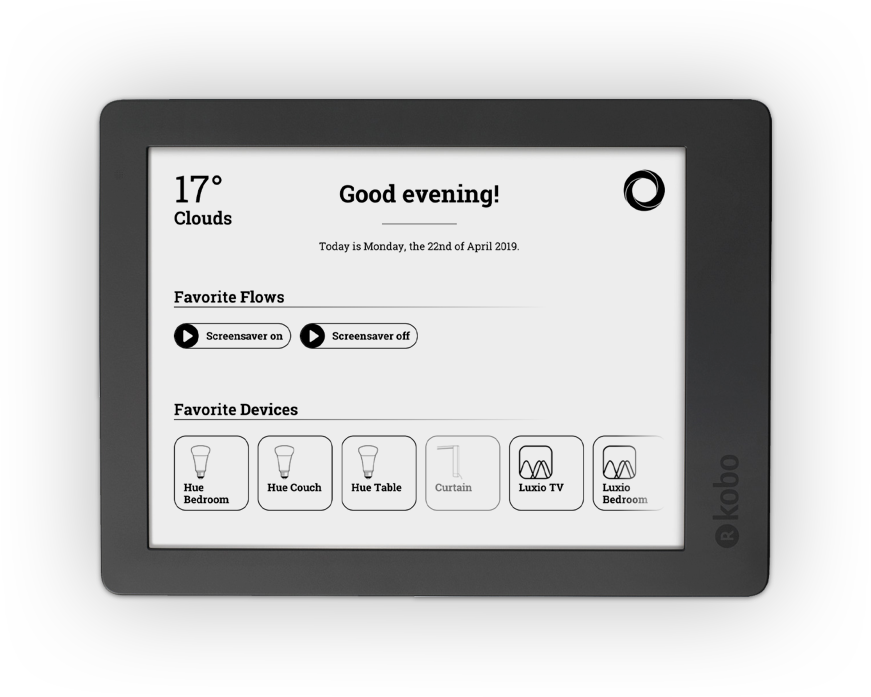
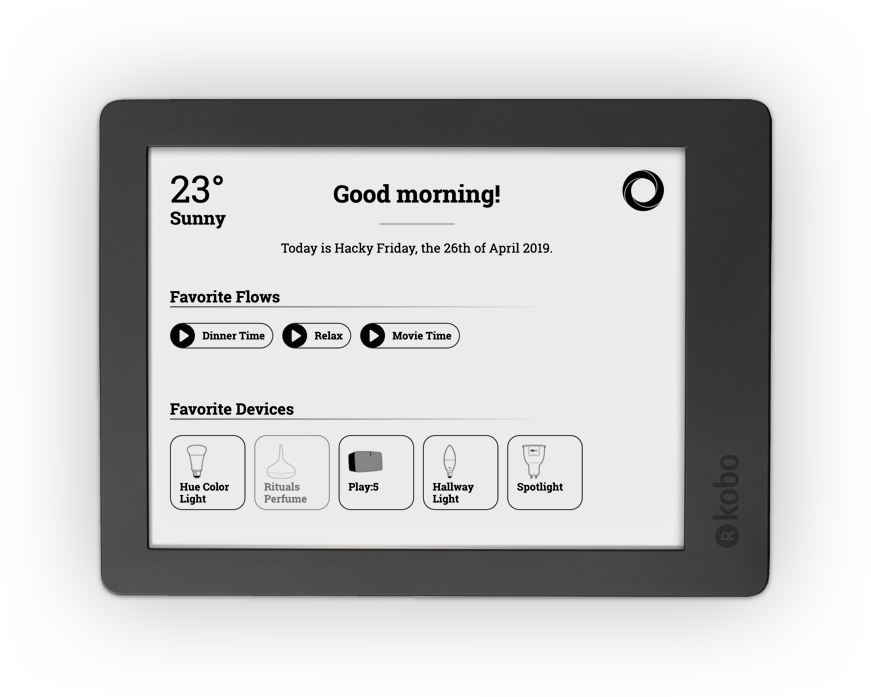
add themes

diff --git a/app/css/homey.ink.css b/app/css/homey.ink.css
@@ -1,5 +1,3 @@
-@import url('https://fonts.googleapis.com/css?family=Roboto+Slab:400,700');
-
 * {
   margin: 0;
   padding: 0;
@@ -16,17 +14,11 @@ body {
   background: white;
   color: black;
   
-  font-family: "Roboto Slab";
+  font-family: Helvetica, sans-serif;
 }
 
 #container {
-  width: 1440px;
-  height: 1080px;
-  
-  padding: 64px;
   box-sizing: border-box;
-  
-  -webkit-transform: rotate(90deg) translateX(180px) translateY(180px);
 }
   #container-inner {
     position: relative;
@@ -45,9 +37,6 @@ body {
   }
   
   #text {
-    position: absolute;
-    left: 200px;
-    right: 200px;
     text-align: center;
   }
   #text-large:after {
@@ -71,9 +60,7 @@ body {
     }
   
   #weather {
-    position: absolute;
-    left: 0;
-    top: 0;
+    
   }
     #weather-temperature {
       font-size: 100px;
@@ -89,9 +76,6 @@ body {
     }
   
   .favorites {
-    position: absolute;
-    left: 0;
-    right: 0;
     
   }
     .favorites h2 {
@@ -120,7 +104,6 @@ body {
     }
   
   #flows {
-    top: 310px;
   }
     .flows {
     }
@@ -174,7 +157,7 @@ body {
         }
     
   #devices {
-    top: 610px;
+    
   }
     .devices {
       

diff --git a/css/homey.ink.css b/css/homey.ink.css
@@ -204,11 +204,20 @@ body {
         cursor: pointer;
       }
   .devices {
-    
+    display: flex;
+    flex-direction: row;
+    align-items: center;
+    margin-bottom: 50px;    
   }
     .device {
       padding: 30px;
       height: auto;
+      margin-right: 50px;
+      align-self: stretch;
+      
+      display: flex;
+      align-items: center;
+      justify-content: center;
     }
       .device-image {
         display: block;
@@ -218,7 +227,17 @@ body {
       .device-name {
         font-size: 18px;
         font-weight: 400;
+        font-style: normal;
       }
+        .device-name a {
+          color: #0078ff;
+          font-style: normal;
+          text-decoration: none;
+        }
+        .device-name a:hover {
+          text-decoration: underline;
+          cursor: pointer;
+        }
   
 .footer {
   box-shadow: 0 0 100px rgba(0,0,0,0.2);

diff --git a/app/css/themes/kobo-h2o.css b/app/css/themes/kobo-h2o.css
@@ -1,0 +1,38 @@
+@import url('https://fonts.googleapis.com/css?family=Roboto+Slab:400,700');
+
+body {
+  font-family: "Roboto Slab";
+}
+
+#container {
+  width: 1440px;
+  height: 1080px;
+  padding: 64px;
+  -webkit-transform: rotate(90deg) translateX(180px) translateY(180px);
+}
+  
+#weather {
+  position: absolute;
+  left: 0;
+  top: 0;
+}
+
+#text {
+  position: absolute;
+  left: 200px;
+  right: 200px;
+}
+
+#flows {
+  top: 310px;
+}
+
+#devices {
+  top: 610px;
+}
+  
+.favorites {
+  position: absolute;
+  left: 0;
+  right: 0;
+}

diff --git a/index.html b/index.html
@@ -72,7 +72,10 @@
         <div class="bubble device">
           <img class="device-image" src="img/device-kobo-h2o.png" alt="" />
           <span class="device-name">Kobo Aura H2O</span>
-        </div>        
+        </div>      
+        <div class="bubble device">
+          <span class="device-name">❤<br/><br/>Contribute by adding support for your device.<br /><br /><a href="https://github.com/athombv/homey.ink" target="_blank">Visit Github</a></span>
+        </div>   
       </div>
     </div>
     

diff --git a/app/js/homey.ink.app.js b/app/js/homey.ink.app.js
@@ -28,6 +28,13 @@ window.addEventListener('load', function() {
     clientSecret: CLIENT_SECRET,
   });
   
+  var theme = getQueryVariable('theme');
+  var $css = document.createElement('link');
+  $css.rel = 'stylesheet';
+  $css.type = 'text/css';
+  $css.href = './css/themes/' + theme + '.css';
+  document.head.appendChild($css);
+  
   var token = getQueryVariable('token');
   token = atob(token);
   token = JSON.parse(token);

diff --git a/js/homey.ink.js b/js/homey.ink.js
@@ -38,8 +38,8 @@ window.addEventListener('load', () => {
         token = btoa(token);
         
         const url = new URL('https://homey.ink/app/index.html');
-        url.searchParams.append('token', token);
         url.searchParams.append('theme', 'kobo-h2o');
+        url.searchParams.append('token', token);
         
         homepage = url.toString();
         console.log('URL:', homepage);
